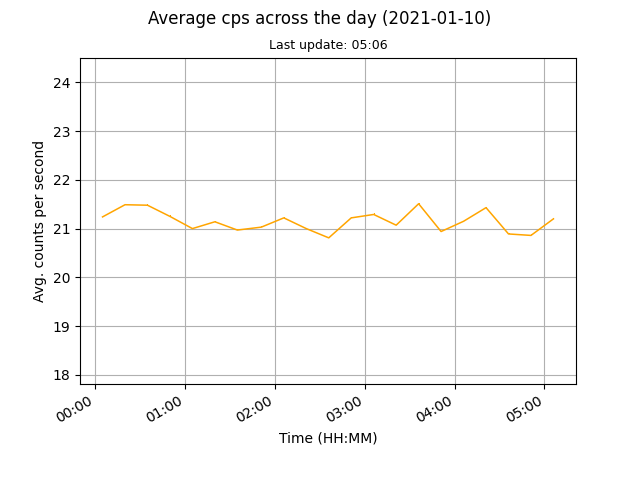
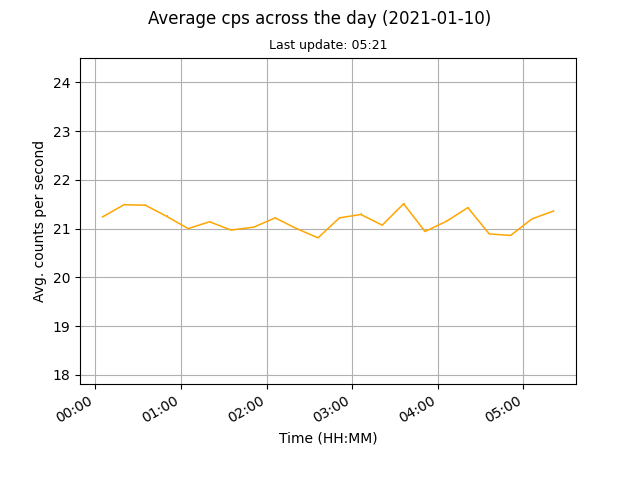
auto data update

diff --git a/docs/index.html b/docs/index.html
@@ -45,8 +45,8 @@
 	
 	<br>
 	
-	<p>Current counts per second (cps): 21.2</p>
-	<p>Last update: 2021-01-10, 05:06</p>
+	<p>Current counts per second (cps): 21.36</p>
+	<p>Last update: 2021-01-10, 05:21</p>
 
 	<p><a href="images/monthly.png"><img src="images/monthly.png" alt="Mothly avg cps data"></a><a href="images/daily.png"><img src="images/daily.png" alt="Daily avg cps data"></a></p>
 	
